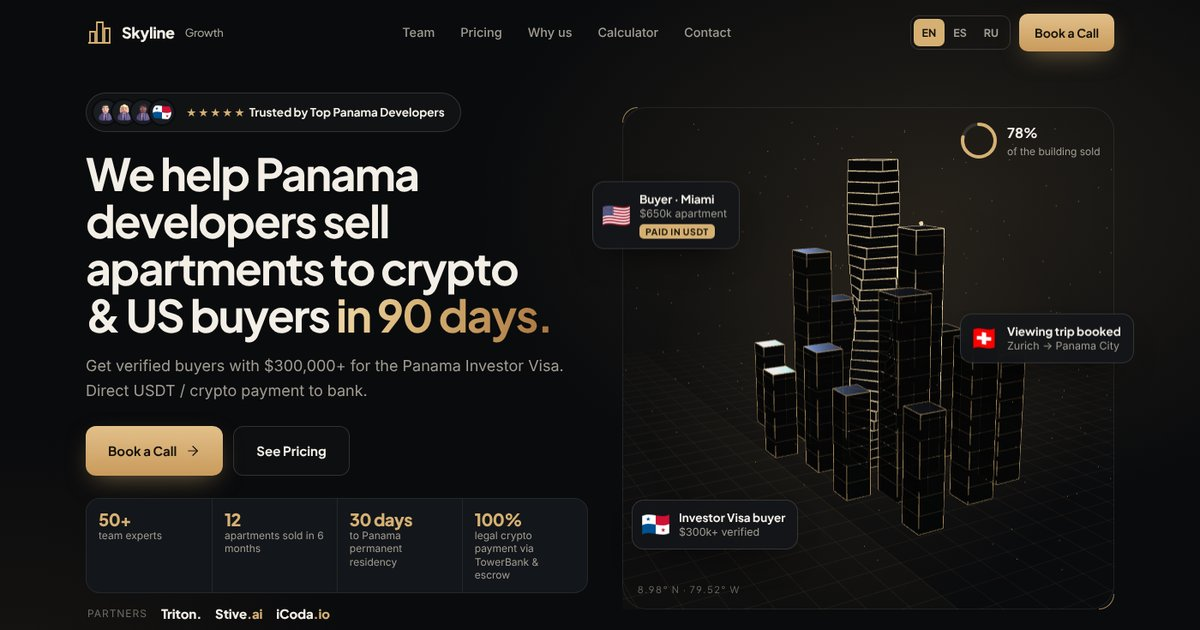
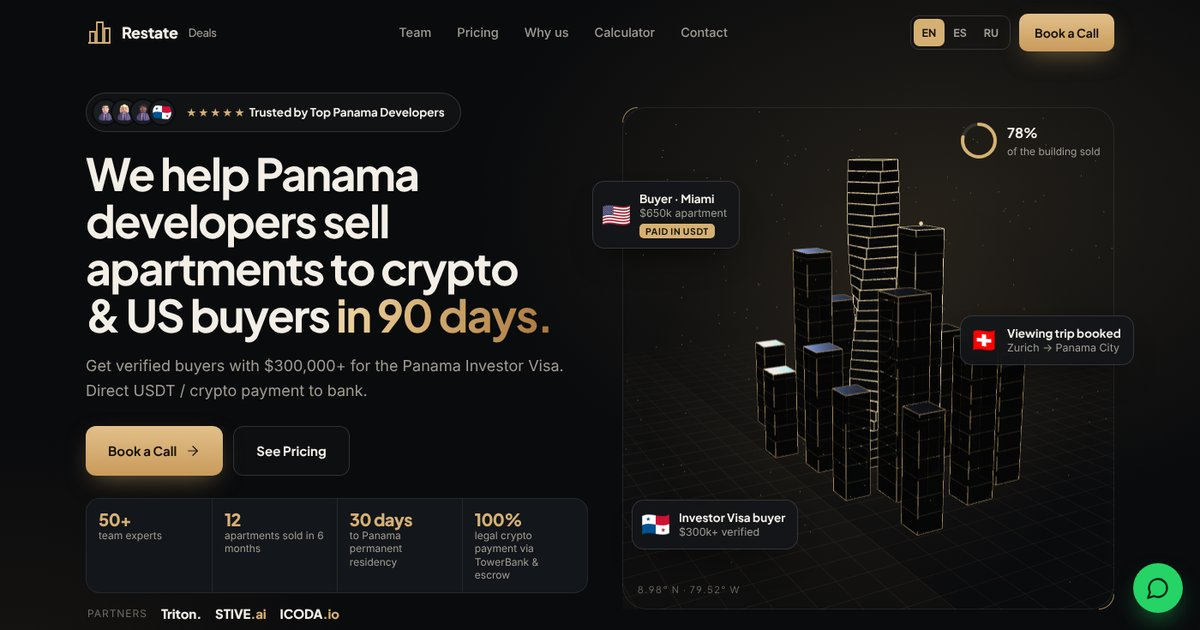
Rename to Restate Deals; WhatsApp number, Calendly links; uppercase ICODA and STIVE
Claude-Session: https://claude.ai/code/session_01LeM8CA7onLEPkCA6EuCgbG

diff --git a/real-estate-developers/index.html b/real-estate-developers/index.html
@@ -3,11 +3,11 @@
 <head>
 <meta charset="utf-8">
 <meta name="viewport" content="width=device-width, initial-scale=1, viewport-fit=cover">
-<title>Skyline Growth Panama</title>
+<title>Restate Deals</title>
 <meta name="description" content="We help Panama developers sell apartments to crypto and US buyers in 90 days. Verified $300k+ buyers, USDT payment to bank.">
 <meta name="theme-color" content="#0a0b0d">
 <meta property="og:type" content="website">
-<meta property="og:title" content="Skyline Growth: sell Panama apartments to crypto &amp; US buyers in 90 days">
+<meta property="og:title" content="Restate Deals: sell Panama apartments to crypto &amp; US buyers in 90 days">
 <meta property="og:description" content="Verified $300k+ buyers for the Panama Investor Visa. USDT payment to bank. No hidden margin.">
 <meta property="og:image" content="og.jpg">
 <meta name="twitter:card" content="summary_large_image">
@@ -470,7 +470,7 @@ footer{border-top:1px solid var(--line);padding-block:30px calc(30px + env(safe-
 .btn-wa{background:#25d366;color:#06240f;font-weight:700}
 .btn-wa:hover{transform:translateY(-2px);box-shadow:0 14px 30px -12px rgba(37,211,102,.6)}
 .btn-wa .ic{width:20px;height:20px}
-.checkout .btn-wa{width:100%}
+.checkout .btn-wa,.checkout .cal-big{width:100%}
 .f-links .wa-link{border-color:rgba(37,211,102,.5);color:#5ee08f}
 .f-links .wa-link:hover{background:rgba(37,211,102,.1)}
 .wa-float{position:fixed;right:max(20px,env(safe-area-inset-right,0px));bottom:calc(20px + env(safe-area-inset-bottom,0px));z-index:55;width:58px;height:58px;border-radius:50%;background:#25d366;color:#06240f;display:grid;place-items:center;box-shadow:0 14px 30px -10px rgba(37,211,102,.6);transition:transform .2s}
@@ -491,7 +491,7 @@ section[id]{scroll-margin-top:80px}
 
 <header id="hdr">
   <div class="wrap nav">
-    <a href="#top" class="logo"><svg viewBox="0 0 32 32" fill="none" stroke="#d6b073" stroke-width="1.8"><path d="M5 28V15h6v13M13 28V4h7v24M22 28V11h6v17M3 28h26"/></svg>Skyline<small>Growth</small></a>
+    <a href="#top" class="logo"><svg viewBox="0 0 32 32" fill="none" stroke="#d6b073" stroke-width="1.8"><path d="M5 28V15h6v13M13 28V4h7v24M22 28V11h6v17M3 28h26"/></svg>Restate<small>Deals</small></a>
     <nav class="nav-links">
       <a href="#team" data-i18n="nav.team">Team</a>
       <a href="#pricing" data-i18n="nav.pricing">Pricing</a>
@@ -501,7 +501,7 @@ section[id]{scroll-margin-top:80px}
     </nav>
     <div class="nav-right">
       <div class="lang" role="group" aria-label="Language"><button data-lang="en" class="on">EN</button><button data-lang="es">ES</button><button data-lang="ru">RU</button></div>
-      <a href="#book" class="btn btn-gold" data-i18n="cta.book">Book a Call</a>
+      <a href="#book" class="btn btn-gold js-cal" data-i18n="cta.book">Book a Call</a>
       <button class="burger" aria-label="Menu"><span></span></button>
     </div>
   </div>
@@ -511,7 +511,7 @@ section[id]{scroll-margin-top:80px}
   <a href="#pricing" data-i18n="nav.pricing">Pricing</a>
   <a href="#compare" data-i18n="nav.compare">Why us</a>
   <a href="#calculator" data-i18n="nav.calc">Calculator</a>
-  <a href="#book" class="btn btn-gold" data-i18n="cta.book">Book a Call</a>
+  <a href="#book" class="btn btn-gold js-cal" data-i18n="cta.book">Book a Call</a>
 </div>
 
 <main id="top">
@@ -522,7 +522,7 @@ section[id]{scroll-margin-top:80px}
       <h1 data-i18n-html="hero.title">We help Panama developers sell apartments to crypto &amp; US buyers <span class="gtxt">in 90 days.</span></h1>
       <p class="lead" data-i18n="hero.lead">Get verified buyers with $300,000+ for the Panama Investor Visa. Direct USDT / crypto payment to bank.</p>
       <div class="hero-cta">
-        <a href="#book" class="btn btn-gold"><span data-i18n="cta.book">Book a Call</span><svg class="ic" viewBox="0 0 24 24"><path d="M5 12h14" /> <path d="m12 5 7 7-7 7" /></svg></a>
+        <a href="#book" class="btn btn-gold js-cal"><span data-i18n="cta.book">Book a Call</span><svg class="ic" viewBox="0 0 24 24"><path d="M5 12h14" /> <path d="m12 5 7 7-7 7" /></svg></a>
         <a href="#pricing" class="btn btn-line" data-i18n="cta.pricing">See Pricing</a>
       </div>
       <div class="proof">
@@ -532,7 +532,7 @@ section[id]{scroll-margin-top:80px}
           <div><b data-i18n="st.3v">30 days</b><span data-i18n="st.3">to Panama permanent residency</span></div>
           <div><b>100%</b><span data-i18n="st.4">legal crypto payment via TowerBank &amp; escrow</span></div>
         </div>
-        <div class="proof-by"><span data-i18n="pw.t">Partners</span><b>Triton.</b><b>Stive<i>.ai</i></b><b>iCoda<i>.io</i></b></div>
+        <div class="proof-by"><span data-i18n="pw.t">Partners</span><b>Triton.</b><a href="https://stive.ai" target="_blank" rel="noopener"><b>STIVE<i>.ai</i></b></a><a href="https://icoda.io" target="_blank" rel="noopener"><b>ICODA<i>.io</i></b></a></div>
       </div>
     </div>
     <div class="scene" id="scene" aria-hidden="true">
@@ -561,7 +561,7 @@ section[id]{scroll-margin-top:80px}
         <div><h3>Artem Voinov</h3></div>
         <span class="f-role" data-i18n="tm.role">Founder &amp; CEO</span>
         <ul class="f-list">
-          <li><svg class="ic" viewBox="0 0 24 24"><circle cx="12" cy="12" r="10" /> <path d="m9 12 2 2 4-4" /></svg><span data-i18n="tm.b1">CBDO at ICODA.io and Stive.ai</span></li>
+          <li><svg class="ic" viewBox="0 0 24 24"><circle cx="12" cy="12" r="10" /> <path d="m9 12 2 2 4-4" /></svg><span data-i18n="tm.b1">CBDO at ICODA.io and STIVE.ai</span></li>
           <li><svg class="ic" viewBox="0 0 24 24"><path d="m22 2-7 20-4-9-9-4Z" /> <path d="M22 2 11 13" /></svg><span data-i18n="tm.b4">Telegram blog with 7,000+ professionals</span></li>
           <li><svg class="ic" viewBox="0 0 24 24"><path d="M20 10c0 6-8 12-8 12s-8-6-8-12a8 8 0 0 1 16 0Z" /> <circle cx="12" cy="10" r="3" /></svg><span data-i18n="tm.b2">Lives and works in Panama City</span></li>
           <li><svg class="ic" viewBox="0 0 24 24"><path d="M16 21v-2a4 4 0 0 0-4-4H6a4 4 0 0 0-4 4v2" /> <circle cx="9" cy="7" r="4" /> <path d="M22 21v-2a4 4 0 0 0-3-3.87" /> <path d="M16 3.13a4 4 0 0 1 0 7.75" /></svg><span data-i18n="tm.b3">Direct access to 2,000+ crypto founders and whales ready to buy property for Panama residency</span></li>
@@ -664,6 +664,7 @@ section[id]{scroll-margin-top:80px}
         <p class="form-ok" id="formOk" hidden></p>
       </form>
       <div class="card checkout rv d1">
+        <a class="btn btn-gold js-cal cal-big" href="#book"><span data-i18n="cal.btn">Pick a time in Calendly</span></a>
         <a class="btn btn-wa js-wa" hidden target="_blank" rel="noopener"><svg class="ic" viewBox="0 0 24 24"><path d="M7.9 20A9 9 0 1 0 4 16.1L2 22Z" /></svg><span data-i18n="wa.btn">Message Artem on WhatsApp</span></a>
         <h3 data-i18n="ck.h">Or start now</h3>
         <div class="seg" id="ckSeg"><button data-p="starter">Starter</button><button data-p="growth" class="on">Growth</button></div>
@@ -679,7 +680,7 @@ section[id]{scroll-margin-top:80px}
 
 <footer>
   <div class="wrap foot">
-    <span>© <span id="yr"></span> Skyline Growth · <span data-i18n="ft.t">Crypto and US buyers for Panama developers</span> · Triton, Stive.ai, iCoda.io</span>
+    <span>© <span id="yr"></span> Restate Deals · <span data-i18n="ft.t">Crypto and US buyers for Panama developers</span> · Triton, STIVE.ai, ICODA.io</span>
     <span>Panama City</span>
   </div>
 </footer>
@@ -702,7 +703,7 @@ section[id]{scroll-margin-top:80px}
 
 <div class="mcta" id="mcta">
   <a class="btn btn-wa mcta-wa js-wa" hidden target="_blank" rel="noopener" aria-label="WhatsApp"><svg class="ic" viewBox="0 0 24 24"><path d="M7.9 20A9 9 0 1 0 4 16.1L2 22Z" /></svg></a>
-  <a href="#book" class="btn btn-gold" data-i18n="cta.book">Book a Call</a>
+  <a href="#book" class="btn btn-gold js-cal" data-i18n="cta.book">Book a Call</a>
   <a href="#pricing" class="btn btn-line" data-i18n="cta.pricing">See Pricing</a>
 </div>
 
@@ -713,13 +714,15 @@ const CONFIG={
   stripe:{starter:"",growth:""},   // Stripe Payment Links (Apple Pay enabled)
   crypto:"",                       // USDT checkout link
   founderPhoto:"img/artem.webp",
-  whatsapp:""                      // your number in international format, digits only, e.g. "50760000000"
+  whatsapp:"50764566336",
+  calendly:"https://calendly.com/voinov-agency/real-estate-deals-ceo"
 };
 const ICONS={"building-2":"<path d=\"M6 22V4a2 2 0 0 1 2-2h8a2 2 0 0 1 2 2v18Z\" /> <path d=\"M6 12H4a2 2 0 0 0-2 2v6a2 2 0 0 0 2 2h2\" /> <path d=\"M18 9h2a2 2 0 0 1 2 2v9a2 2 0 0 1-2 2h-2\" /> <path d=\"M10 6h4\" /> <path d=\"M10 10h4\" /> <path d=\"M10 14h4\" /> <path d=\"M10 18h4\" />","building":"<rect width=\"16\" height=\"20\" x=\"4\" y=\"2\" rx=\"2\" ry=\"2\" /> <path d=\"M9 22v-4h6v4\" /> <path d=\"M8 6h.01\" /> <path d=\"M16 6h.01\" /> <path d=\"M12 6h.01\" /> <path d=\"M12 10h.01\" /> <path d=\"M12 14h.01\" /> <path d=\"M16 10h.01\" /> <path d=\"M16 14h.01\" /> <path d=\"M8 10h.01\" /> <path d=\"M8 14h.01\" />","landmark":"<line x1=\"3\" x2=\"21\" y1=\"22\" y2=\"22\" /> <line x1=\"6\" x2=\"6\" y1=\"18\" y2=\"11\" /> <line x1=\"10\" x2=\"10\" y1=\"18\" y2=\"11\" /> <line x1=\"14\" x2=\"14\" y1=\"18\" y2=\"11\" /> <line x1=\"18\" x2=\"18\" y1=\"18\" y2=\"11\" /> <polygon points=\"12 2 20 7 4 7\" />","plane":"<path d=\"M17.8 19.2 16 11l3.5-3.5C21 6 21.5 4 21 3c-1-.5-3 0-4.5 1.5L13 8 4.8 6.2c-.5-.1-.9.1-1.1.5l-.3.5c-.2.5-.1 1 .3 1.3L9 12l-2 3H4l-1 1 3 2 2 3 1-1v-3l3-2 3.5 5.3c.3.4.8.5 1.3.3l.5-.2c.4-.3.6-.7.5-1.2z\" />","plane-landing":"<path d=\"M2 22h20\" /> <path d=\"M3.77 10.77 2 9l2-4.5 1.1.55c.55.28.9.84.9 1.45s.35 1.17.9 1.45L8 8.5l3-6 1.05.53a2 2 0 0 1 1.09 1.52l.72 5.4a2 2 0 0 0 1.09 1.52l4.4 2.2c.42.22.78.55 1.01.96l.6 1.03c.49.88-.06 1.98-1.06 2.1l-1.18.15c-.47.06-.95-.02-1.37-.24L4.29 11.15a2 2 0 0 1-.52-.38Z\" />","search":"<circle cx=\"11\" cy=\"11\" r=\"8\" /> <path d=\"m21 21-4.3-4.3\" />","trending-down":"<polyline points=\"22 17 13.5 8.5 8.5 13.5 2 7\" /> <polyline points=\"16 17 22 17 22 11\" />","trending-up":"<polyline points=\"22 7 13.5 15.5 8.5 10.5 2 17\" /> <polyline points=\"16 7 22 7 22 13\" />","users":"<path d=\"M16 21v-2a4 4 0 0 0-4-4H6a4 4 0 0 0-4 4v2\" /> <circle cx=\"9\" cy=\"7\" r=\"4\" /> <path d=\"M22 21v-2a4 4 0 0 0-3-3.87\" /> <path d=\"M16 3.13a4 4 0 0 1 0 7.75\" />","handshake":"<path d=\"m11 17 2 2a1 1 0 1 0 3-3\" /> <path d=\"m14 14 2.5 2.5a1 1 0 1 0 3-3l-3.88-3.88a3 3 0 0 0-4.24 0l-.88.88a1 1 0 1 1-3-3l2.81-2.81a5.79 5.79 0 0 1 7.06-.87l.47.28a2 2 0 0 0 1.42.25L21 4\" /> <path d=\"m21 3 1 11h-2\" /> <path d=\"M3 3 2 14l6.5 6.5a1 1 0 1 0 3-3\" /> <path d=\"M3 4h8\" />","globe":"<circle cx=\"12\" cy=\"12\" r=\"10\" /> <path d=\"M12 2a14.5 14.5 0 0 0 0 20 14.5 14.5 0 0 0 0-20\" /> <path d=\"M2 12h20\" />","map-pin":"<path d=\"M20 10c0 6-8 12-8 12s-8-6-8-12a8 8 0 0 1 16 0Z\" /> <circle cx=\"12\" cy=\"10\" r=\"3\" />","key-round":"<path d=\"M2 18v3c0 .6.4 1 1 1h4v-3h3v-3h2l1.4-1.4a6.5 6.5 0 1 0-4-4Z\" /> <circle cx=\"16.5\" cy=\"7.5\" r=\".5\" fill=\"currentColor\" />","mail":"<rect width=\"20\" height=\"16\" x=\"2\" y=\"4\" rx=\"2\" /> <path d=\"m22 7-8.97 5.7a1.94 1.94 0 0 1-2.06 0L2 7\" />","megaphone":"<path d=\"m3 11 18-5v12L3 14v-3z\" /> <path d=\"M11.6 16.8a3 3 0 1 1-5.8-1.6\" />","shield-check":"<path d=\"M20 13c0 5-3.5 7.5-7.66 8.95a1 1 0 0 1-.67-.01C7.5 20.5 4 18 4 13V6a1 1 0 0 1 1-1c2 0 4.5-1.2 6.24-2.72a1.17 1.17 0 0 1 1.52 0C14.51 3.81 17 5 19 5a1 1 0 0 1 1 1z\" /> <path d=\"m9 12 2 2 4-4\" />","star":"<polygon points=\"12 2 15.09 8.26 22 9.27 17 14.14 18.18 21.02 12 17.77 5.82 21.02 7 14.14 2 9.27 8.91 8.26 12 2\" />","sparkles":"<path d=\"M9.937 15.5A2 2 0 0 0 8.5 14.063l-6.135-1.582a.5.5 0 0 1 0-.962L8.5 9.936A2 2 0 0 0 9.937 8.5l1.582-6.135a.5.5 0 0 1 .963 0L14.063 8.5A2 2 0 0 0 15.5 9.937l6.135 1.581a.5.5 0 0 1 0 .964L15.5 14.063a2 2 0 0 0-1.437 1.437l-1.582 6.135a.5.5 0 0 1-.963 0z\" /> <path d=\"M20 3v4\" /> <path d=\"M22 5h-4\" /> <path d=\"M4 17v2\" /> <path d=\"M5 18H3\" />","bot":"<path d=\"M12 8V4H8\" /> <rect width=\"16\" height=\"12\" x=\"4\" y=\"8\" rx=\"2\" /> <path d=\"M2 14h2\" /> <path d=\"M20 14h2\" /> <path d=\"M15 13v2\" /> <path d=\"M9 13v2\" />","calendar-check":"<path d=\"M8 2v4\" /> <path d=\"M16 2v4\" /> <rect width=\"18\" height=\"18\" x=\"3\" y=\"4\" rx=\"2\" /> <path d=\"M3 10h18\" /> <path d=\"m9 16 2 2 4-4\" />","crown":"<path d=\"M11.562 3.266a.5.5 0 0 1 .876 0L15.39 8.87a1 1 0 0 0 1.516.294L21.183 5.5a.5.5 0 0 1 .798.519l-2.834 10.246a1 1 0 0 1-.956.734H5.81a1 1 0 0 1-.957-.734L2.02 6.02a.5.5 0 0 1 .798-.519l4.276 3.664a1 1 0 0 0 1.516-.294z\" /> <path d=\"M5 21h14\" />","gem":"<path d=\"M6 3h12l4 6-10 13L2 9Z\" /> <path d=\"M11 3 8 9l4 13 4-13-3-6\" /> <path d=\"M2 9h20\" />","check":"<path d=\"M20 6 9 17l-5-5\" />","arrow-right":"<path d=\"M5 12h14\" /> <path d=\"m12 5 7 7-7 7\" />","wallet":"<path d=\"M19 7V4a1 1 0 0 0-1-1H5a2 2 0 0 0 0 4h15a1 1 0 0 1 1 1v4h-3a2 2 0 0 0 0 4h3a1 1 0 0 0 1-1v-2a1 1 0 0 0-1-1\" /> <path d=\"M3 5v14a2 2 0 0 0 2 2h15a1 1 0 0 0 1-1v-4\" />","bitcoin":"<path d=\"M11.767 19.089c4.924.868 6.14-6.025 1.216-6.894m-1.216 6.894L5.86 18.047m5.908 1.042-.347 1.97m1.563-8.864c4.924.869 6.14-6.025 1.215-6.893m-1.215 6.893-3.94-.694m5.155-6.2L8.29 4.26m5.908 1.042.348-1.97M7.48 20.364l3.126-17.727\" />","credit-card":"<rect width=\"20\" height=\"14\" x=\"2\" y=\"5\" rx=\"2\" /> <line x1=\"2\" x2=\"22\" y1=\"10\" y2=\"10\" />","phone":"<path d=\"M22 16.92v3a2 2 0 0 1-2.18 2 19.79 19.79 0 0 1-8.63-3.07 19.5 19.5 0 0 1-6-6 19.79 19.79 0 0 1-3.07-8.67A2 2 0 0 1 4.11 2h3a2 2 0 0 1 2 1.72 12.84 12.84 0 0 0 .7 2.81 2 2 0 0 1-.45 2.11L8.09 9.91a16 16 0 0 0 6 6l1.27-1.27a2 2 0 0 1 2.11-.45 12.84 12.84 0 0 0 2.81.7A2 2 0 0 1 22 16.92z\" />","file-text":"<path d=\"M15 2H6a2 2 0 0 0-2 2v16a2 2 0 0 0 2 2h12a2 2 0 0 0 2-2V7Z\" /> <path d=\"M14 2v4a2 2 0 0 0 2 2h4\" /> <path d=\"M10 9H8\" /> <path d=\"M16 13H8\" /> <path d=\"M16 17H8\" />","video":"<path d=\"m16 13 5.223 3.482a.5.5 0 0 0 .777-.416V7.87a.5.5 0 0 0-.752-.432L16 10.5\" /> <rect x=\"2\" y=\"6\" width=\"14\" height=\"12\" rx=\"2\" />","newspaper":"<path d=\"M4 22h16a2 2 0 0 0 2-2V4a2 2 0 0 0-2-2H8a2 2 0 0 0-2 2v16a2 2 0 0 1-2 2Zm0 0a2 2 0 0 1-2-2v-9c0-1.1.9-2 2-2h2\" /> <path d=\"M18 14h-8\" /> <path d=\"M15 18h-5\" /> <path d=\"M10 6h8v4h-8V6Z\" />","target":"<circle cx=\"12\" cy=\"12\" r=\"10\" /> <circle cx=\"12\" cy=\"12\" r=\"6\" /> <circle cx=\"12\" cy=\"12\" r=\"2\" />","rocket":"<path d=\"M4.5 16.5c-1.5 1.26-2 5-2 5s3.74-.5 5-2c.71-.84.7-2.13-.09-2.91a2.18 2.18 0 0 0-2.91-.09z\" /> <path d=\"m12 15-3-3a22 22 0 0 1 2-3.95A12.88 12.88 0 0 1 22 2c0 2.72-.78 7.5-6 11a22.35 22.35 0 0 1-4 2z\" /> <path d=\"M9 12H4s.55-3.03 2-4c1.62-1.08 5 0 5 0\" /> <path d=\"M12 15v5s3.03-.55 4-2c1.08-1.62 0-5 0-5\" />","trophy":"<path d=\"M6 9H4.5a2.5 2.5 0 0 1 0-5H6\" /> <path d=\"M18 9h1.5a2.5 2.5 0 0 0 0-5H18\" /> <path d=\"M4 22h16\" /> <path d=\"M10 14.66V17c0 .55-.47.98-.97 1.21C7.85 18.75 7 20.24 7 22\" /> <path d=\"M14 14.66V17c0 .55.47.98.97 1.21C16.15 18.75 17 20.24 17 22\" /> <path d=\"M18 2H6v7a6 6 0 0 0 12 0V2Z\" />","briefcase":"<path d=\"M16 20V4a2 2 0 0 0-2-2h-4a2 2 0 0 0-2 2v16\" /> <rect width=\"20\" height=\"14\" x=\"2\" y=\"6\" rx=\"2\" />","percent":"<line x1=\"19\" x2=\"5\" y1=\"5\" y2=\"19\" /> <circle cx=\"6.5\" cy=\"6.5\" r=\"2.5\" /> <circle cx=\"17.5\" cy=\"17.5\" r=\"2.5\" />","clock":"<circle cx=\"12\" cy=\"12\" r=\"10\" /> <polyline points=\"12 6 12 12 16 14\" />","eye-off":"<path d=\"M9.88 9.88a3 3 0 1 0 4.24 4.24\" /> <path d=\"M10.73 5.08A10.43 10.43 0 0 1 12 5c7 0 10 7 10 7a13.16 13.16 0 0 1-1.67 2.68\" /> <path d=\"M6.61 6.61A13.526 13.526 0 0 0 2 12s3 7 10 7a9.74 9.74 0 0 0 5.39-1.61\" /> <line x1=\"2\" x2=\"22\" y1=\"2\" y2=\"22\" />","badge-dollar-sign":"<path d=\"M3.85 8.62a4 4 0 0 1 4.78-4.77 4 4 0 0 1 6.74 0 4 4 0 0 1 4.78 4.78 4 4 0 0 1 0 6.74 4 4 0 0 1-4.77 4.78 4 4 0 0 1-6.75 0 4 4 0 0 1-4.78-4.77 4 4 0 0 1 0-6.76Z\" /> <path d=\"M16 8h-6a2 2 0 1 0 0 4h4a2 2 0 1 1 0 4H8\" /> <path d=\"M12 18V6\" />","flag-triangle-right":"<path d=\"M7 22V2l10 5-10 5\" />","tag":"<path d=\"M12.586 2.586A2 2 0 0 0 11.172 2H4a2 2 0 0 0-2 2v7.172a2 2 0 0 0 .586 1.414l8.704 8.704a2.426 2.426 0 0 0 3.42 0l6.58-6.58a2.426 2.426 0 0 0 0-3.42z\" /> <circle cx=\"7.5\" cy=\"7.5\" r=\".5\" fill=\"currentColor\" />","hotel":"<path d=\"M10 22v-6.57\" /> <path d=\"M12 11h.01\" /> <path d=\"M12 7h.01\" /> <path d=\"M14 15.43V22\" /> <path d=\"M15 16a5 5 0 0 0-6 0\" /> <path d=\"M16 11h.01\" /> <path d=\"M16 7h.01\" /> <path d=\"M8 11h.01\" /> <path d=\"M8 7h.01\" /> <rect x=\"4\" y=\"2\" width=\"16\" height=\"20\" rx=\"2\" />","castle":"<path d=\"M22 20v-9H2v9a2 2 0 0 0 2 2h16a2 2 0 0 0 2-2Z\" /> <path d=\"M18 11V4H6v7\" /> <path d=\"M15 22v-4a3 3 0 0 0-3-3a3 3 0 0 0-3 3v4\" /> <path d=\"M22 11V9\" /> <path d=\"M2 11V9\" /> <path d=\"M6 4V2\" /> <path d=\"M18 4V2\" /> <path d=\"M10 4V2\" /> <path d=\"M14 4V2\" />","waves":"<path d=\"M2 6c.6.5 1.2 1 2.5 1C7 7 7 5 9.5 5c2.6 0 2.4 2 5 2 2.5 0 2.5-2 5-2 1.3 0 1.9.5 2.5 1\" /> <path d=\"M2 12c.6.5 1.2 1 2.5 1 2.5 0 2.5-2 5-2 2.6 0 2.4 2 5 2 2.5 0 2.5-2 5-2 1.3 0 1.9.5 2.5 1\" /> <path d=\"M2 18c.6.5 1.2 1 2.5 1 2.5 0 2.5-2 5-2 2.6 0 2.4 2 5 2 2.5 0 2.5-2 5-2 1.3 0 1.9.5 2.5 1\" />","chart":"<path d=\"M3 3v18h18\" /> <path d=\"m19 9-5 5-4-4-3 3\" />","palm":"<path d=\"M13 8c0-2.76-2.46-5-5.5-5S2 5.24 2 8h2l1-1 1 1h4\" /> <path d=\"M13 7.14A5.82 5.82 0 0 1 16.5 6c3.04 0 5.5 2.24 5.5 5h-3l-1-1-1 1h-3\" /> <path d=\"M5.89 9.71c-2.15 2.15-2.3 5.47-.35 7.43l4.24-4.25.7-.7.71-.71 2.12-2.12c-1.95-1.96-5.27-1.8-7.42.35\" /> <path d=\"M11 15.5c.5 2.5-.17 4.5-1 6.5h4c2-5.5-.5-12-1-14\" />","x":"<path d=\"M18 6 6 18\" /> <path d=\"m6 6 12 12\" />","circle-check":"<circle cx=\"12\" cy=\"12\" r=\"10\" /> <path d=\"m9 12 2 2 4-4\" />","user-round":"<circle cx=\"12\" cy=\"8\" r=\"5\" /> <path d=\"M20 21a8 8 0 0 0-16 0\" />","send":"<path d=\"m22 2-7 20-4-9-9-4Z\" /> <path d=\"M22 2 11 13\" />","map":"<path d=\"M14.106 5.553a2 2 0 0 0 1.788 0l3.659-1.83A1 1 0 0 1 21 4.619v12.764a1 1 0 0 1-.553.894l-4.553 2.277a2 2 0 0 1-1.788 0l-4.212-2.106a2 2 0 0 0-1.788 0l-3.659 1.83A1 1 0 0 1 3 19.381V6.618a1 1 0 0 1 .553-.894l4.553-2.277a2 2 0 0 1 1.788 0z\" /> <path d=\"M15 5.764v15\" /> <path d=\"M9 3.236v15\" />"};
 const svg=(n,c='ic')=>`<svg class="${c}" viewBox="0 0 24 24">${ICONS[n]||''}</svg>`;
 
 const I18N={
 en:{
+ "cal.btn":"Pick a time in Calendly",
  "wa.btn":"Message Artem on WhatsApp",
  "wa.msg":"Hi Artem! I want crypto buyer leads for my real estate project in Panama.",
  "lm.b":"Transparent billing",
@@ -742,25 +745,26 @@ en:{
  "pw.t":"Partners",
  "vis.sold":"of the building sold","vis.c1":"Buyer · Miami","vis.c1s":"$650k apartment","vis.c1t":"Paid in USDT","vis.c2":"Viewing trip booked","vis.c2s":"Zurich → Panama City","vis.c3":"Investor Visa buyer","vis.c3s":"$300k+ verified",
  "tm.k":"Team","tm.t":"Leadership <span class=\"gold\">on the ground</span>","tm.l":"Based in Panama City. Native to Web3 and high-ticket sales.",
- "tm.role":"Founder & CEO","tm.b1":"CBDO at ICODA.io and Stive.ai","tm.b4":"Telegram blog with 7,000+ professionals","tm.b2":"Lives and works in Panama City","tm.b3":"Direct access to 2,000+ crypto founders and whales ready to buy property for Panama residency",
+ "tm.role":"Founder & CEO","tm.b1":"CBDO at ICODA.io and STIVE.ai","tm.b4":"Telegram blog with 7,000+ professionals","tm.b2":"Lives and works in Panama City","tm.b3":"Direct access to 2,000+ crypto founders and whales ready to buy property for Panama residency",
  "tm.n1":"crypto founders in our network","tm.n2":"vetted specialists","tm.n3":"professionals read Artem's Telegram","nm.t":"No hidden margin. You get every contractor directly.","nm.p":"Other agencies hide their markup on ads, designers and developers. We connect you to each contractor directly, so you save tens of thousands of dollars.","tm.th":"Backed by 50+ vetted specialists",
  "pk.k":"Pricing","pk.t":"Three <span class=\"gold\">simple plans</span>","pk.l":"Fixed monthly hours for any service + direct ad budget + success alignment.",
  "pk.mo":"/ month","pk.popular":"Most popular","pk.promo":"Promo","pk.get":"What you get","pk.terms":"Terms","pk.goal":"Goal",
  "cmp.k":"Why us","cmp.t":"Us vs <span class=\"gold\">the others</span>",
- "cmp.h0":"","cmp.h1":"Local Panama brokers","cmp.h2":"Big remote agencies","cmp.h3":"Skyline Growth",
+ "cmp.h0":"","cmp.h1":"Local Panama brokers","cmp.h2":"Big remote agencies","cmp.h3":"Restate Deals",
  "cs.k":"Results","cs.t":"Projects we've <span class=\"gold\">already sold</span>",
  "calc.k":"Calculator","calc.t":"What you save <span class=\"gold\">vs brokers</span>","calc.h":"Your project","calc.price":"Average apartment price","calc.units":"Apartments to sell per month",
  "calc.vol":"Your sales per month","calc.save":"You save vs a 6% broker fee","calc.saveS":"per month","calc.plan":"Recommended plan",
  "calc.cmp":"What each sale costs you","calc.cmpUs":"With us","calc.cmpBr":"Local brokers",
  "calc.as":"With us = monthly fee + ad budget + 2% on sales. Rough estimate based on our past projects.",
 
- "bk.k":"Contact","bk.t":"Book a call <span class=\"gold\">with Artem</span>","bk.name":"Your name","bk.company":"Company / building name","bk.phone":"WhatsApp number","bk.email":"Work email","bk.send":"Book a Call",
+ "bk.k":"Contact","bk.t":"Book a call <span class=\"gold\">with Artem</span>","bk.name":"Your name","bk.company":"Company / building name","bk.phone":"WhatsApp number","bk.email":"Work email","bk.send":"Send request",
  "bk.ok":"Thank you. Artem will message you on WhatsApp within one business day.","bk.preview":"This is a preview, so nothing was sent. On the live site this form sends your request to our team.",
  "ck.h":"Or start now","pay.card":"Card · Apple Pay","pay.cardS":"Secure checkout via Stripe","pay.crypto":"Crypto · USDT","pay.cryptoS":"Pay with USDT",
  "pay.soon":"Online payment opens soon. Fill in the form and we'll send you a secure payment link.",
  "ft.t":"Crypto and US buyers for Panama developers"
 },
 es:{
+ "cal.btn":"Elegir horario en Calendly",
  "wa.btn":"Escribir a Artem por WhatsApp",
  "wa.msg":"¡Hola Artem! Quiero leads de compradores crypto para mi proyecto inmobiliario en Panamá.",
  "lm.b":"Facturación transparente",
@@ -783,25 +787,25 @@ es:{
  "pw.t":"Socios",
  "vis.sold":"del edificio vendido","vis.c1":"Comprador · Miami","vis.c1s":"Apartamento de $650k","vis.c1t":"Pagado en USDT","vis.c2":"Visita agendada","vis.c2s":"Zúrich → Ciudad de Panamá","vis.c3":"Comprador con Visa de Inversionista","vis.c3s":"$300k+ verificado",
  "tm.k":"Equipo","tm.t":"Liderazgo <span class=\"gold\">en Panamá</span>","tm.l":"Con base en Ciudad de Panamá. Expertos en Web3 y ventas de alto valor.",
- "tm.role":"Fundador y CEO","tm.b1":"CBDO en ICODA.io y Stive.ai","tm.b4":"Blog en Telegram con 7,000+ profesionales","tm.b2":"Vive y trabaja en Ciudad de Panamá","tm.b3":"Acceso directo a 2,000+ fundadores crypto e inversionistas grandes listos para comprar propiedad para residencia en Panamá",
+ "tm.role":"Fundador y CEO","tm.b1":"CBDO en ICODA.io y STIVE.ai","tm.b4":"Blog en Telegram con 7,000+ profesionales","tm.b2":"Vive y trabaja en Ciudad de Panamá","tm.b3":"Acceso directo a 2,000+ fundadores crypto e inversionistas grandes listos para comprar propiedad para residencia en Panamá",
  "tm.n1":"fundadores crypto en nuestra red","tm.n2":"especialistas verificados","tm.n3":"profesionales leen el Telegram de Artem","nm.t":"Sin margen oculto. Trabaja con cada proveedor directamente.","nm.p":"Otras agencias esconden su margen en anuncios, diseñadores y programadores. Nosotros le conectamos con cada proveedor directamente y ahorra decenas de miles de dólares.","tm.th":"Respaldado por 50+ especialistas verificados",
  "pk.k":"Precios","pk.t":"Tres <span class=\"gold\">planes simples</span>","pk.l":"Horas mensuales fijas para cualquier servicio + presupuesto de anuncios directo + pago por resultado.",
  "pk.mo":"/ mes","pk.popular":"El más elegido","pk.promo":"Promo","pk.get":"Qué incluye","pk.terms":"Condiciones","pk.goal":"Meta",
  "cmp.k":"Por qué nosotros","cmp.t":"Nosotros vs <span class=\"gold\">los demás</span>",
- "cmp.h0":"","cmp.h1":"Corredores locales","cmp.h2":"Agencias remotas grandes","cmp.h3":"Skyline Growth",
+ "cmp.h0":"","cmp.h1":"Corredores locales","cmp.h2":"Agencias remotas grandes","cmp.h3":"Restate Deals",
  "cs.k":"Resultados","cs.t":"Proyectos que <span class=\"gold\">ya vendimos</span>",
  "calc.k":"Calculadora","calc.t":"Cuánto ahorra <span class=\"gold\">vs corredores</span>","calc.h":"Su proyecto","calc.price":"Precio promedio del apartamento","calc.units":"Apartamentos a vender por mes",
  "calc.vol":"Sus ventas por mes","calc.save":"Ahorra vs 6% de comisión","calc.saveS":"por mes","calc.plan":"Plan recomendado",
  "calc.cmp":"Lo que le cuesta cada venta","calc.cmpUs":"Con nosotros","calc.cmpBr":"Corredores locales",
  "calc.as":"Con nosotros = cuota mensual + anuncios + 2% por venta. Estimación aproximada.",
 
- "bk.k":"Contacto","bk.t":"Agende una llamada <span class=\"gold\">con Artem</span>","bk.name":"Su nombre","bk.company":"Empresa / nombre del edificio","bk.phone":"Número de WhatsApp","bk.email":"Email de trabajo","bk.send":"Agendar llamada",
+ "bk.k":"Contacto","bk.t":"Agende una llamada <span class=\"gold\">con Artem</span>","bk.name":"Su nombre","bk.company":"Empresa / nombre del edificio","bk.phone":"Número de WhatsApp","bk.email":"Email de trabajo","bk.send":"Enviar solicitud",
  "bk.ok":"Gracias. Artem le escribirá por WhatsApp en un día hábil.","bk.preview":"Esto es una vista previa, no se envió nada. En el sitio publicado este formulario envía su solicitud a nuestro equipo.",
  "ck.h":"O empiece ahora","pay.card":"Tarjeta · Apple Pay","pay.cardS":"Pago seguro con Stripe","pay.crypto":"Crypto · USDT","pay.cryptoS":"Pague con USDT",
  "pay.soon":"El pago en línea abre pronto. Complete el formulario y le enviaremos un enlace de pago seguro.",
  "ft.t":"Compradores crypto y de EE.UU. para promotores en Panamá"
 },
-ru:{"wa.btn": "Написать Артёму в WhatsApp", "wa.msg": "Здравствуйте, Артём! Хочу лидов на Real Estate из крипты.", "lm.b": "Прозрачная оплата", "lm.s": "Любой час можно потратить на", "fe.k2": "Понятная структура оплаты", "fe.t1": "Один банк часов. Тратьте на любые услуги.", "fe.k1": "Гибкая модель услуг", "pk.more": "Подробнее", "pk.ad": "Рекламный бюджет оплачивается отдельно, напрямую площадкам.", "pk.guar": "Гарантия", "pk.success": "Оплата за результат", "pk.focus": "Рекомендуемый фокус", "pk.hrs": "часов команды в месяц", "nav.team": "Команда", "nav.pricing": "Цены", "nav.compare": "Почему мы", "nav.calc": "Калькулятор", "nav.book": "Контакты", "cta.book": "Записаться на звонок", "cta.pricing": "Смотреть цены", "hero.tag": "Нам доверяют лучшие застройщики Панамы", "hero.title": "Продаём квартиры застройщиков Панамы крипто-покупателям и клиентам из США <span class=\"gtxt\">за 90 дней.</span>", "hero.lead": "Проверенные покупатели с $300,000+ под инвесторскую визу Панамы. Оплата в USDT / крипте напрямую на банковский счёт.", "st.1": "экспертов в команде", "st.2": "квартир продано за 6 месяцев", "st.3v": "30 дней", "st.3": "до ПМЖ в Панаме", "st.4": "легальная оплата криптой через TowerBank и эскроу", "pw.t": "Партнёры", "vis.sold": "здания продано", "vis.c1": "Покупатель · Майами", "vis.c1s": "Квартира за $650k", "vis.c1t": "Оплата в USDT", "vis.c2": "Показ забронирован", "vis.c2s": "Цюрих → Панама-Сити", "vis.c3": "Покупатель под визу", "vis.c3s": "$300k+ подтверждено", "tm.k": "Команда", "tm.t": "Руководство <span class=\"gold\">прямо в Панаме</span>", "tm.l": "Живём в Панама-Сити. Свои в Web3 и дорогих продажах.", "tm.role": "Основатель и CEO", "tm.b1": "CBDO в ICODA.io и Stive.ai", "tm.b4": "Telegram-блог на 7,000+ профессионалов", "tm.b2": "Живёт и работает в Панама-Сити", "tm.b3": "Прямой доступ к 2,000+ крипто-фаундерам и китам, готовым купить недвижимость ради резидентства в Панаме", "tm.n1": "крипто-фаундеров в нашей сети", "tm.n2": "проверенных специалистов", "tm.n3": "профессионалов читают Telegram Артёма", "tm.th": "За нами 50+ проверенных специалистов", "nm.t": "Без скрытой маржи. Все подрядчики напрямую.", "nm.p": "Другие агентства прячут наценку на рекламу, дизайнеров и разработчиков. Мы даём вам каждого подрядчика напрямую, и вы экономите десятки тысяч долларов.", "pk.k": "Цены", "pk.t": "Три <span class=\"gold\">простых плана</span>", "pk.l": "Фиксированные часы в месяц на любые услуги + рекламный бюджет напрямую + оплата за результат.", "pk.mo": "/ мес", "pk.popular": "Популярный", "pk.promo": "Акция", "pk.get": "Что входит", "pk.terms": "Условия", "pk.goal": "Цель", "cmp.k": "Почему мы", "cmp.t": "Мы и <span class=\"gold\">другие</span>", "cmp.h0": "", "cmp.h1": "Местные брокеры", "cmp.h2": "Большие удалённые агентства", "cmp.h3": "Skyline Growth", "cs.k": "Результаты", "cs.t": "Проекты, которые мы <span class=\"gold\">уже продали</span>", "calc.k": "Калькулятор", "calc.t": "Сколько вы сэкономите <span class=\"gold\">по сравнению с брокерами</span>", "calc.h": "Ваш проект", "calc.price": "Средняя цена квартиры", "calc.units": "Квартир продать в месяц", "calc.vol": "Ваши продажи в месяц", "calc.save": "Экономия против комиссии брокера 6%", "calc.saveS": "в месяц", "calc.plan": "Рекомендуемый план", "calc.cmp": "Сколько стоит вам каждая продажа", "calc.cmpUs": "С нами", "calc.cmpBr": "Местные брокеры", "calc.as": "С нами = ежемесячная оплата + реклама + 2% с продаж. Примерная оценка по прошлым проектам.", "bk.k": "Контакты", "bk.t": "Созвон <span class=\"gold\">с Артёмом</span>", "bk.name": "Ваше имя", "bk.company": "Компания / название здания", "bk.phone": "Номер WhatsApp", "bk.email": "Рабочий email", "bk.send": "Записаться на звонок", "bk.ok": "Спасибо. Артём напишет вам в WhatsApp в течение рабочего дня.", "bk.preview": "Это превью, поэтому ничего не отправлено. На опубликованном сайте форма отправит заявку нашей команде.", "ck.h": "Или начните сейчас", "pay.card": "Карта · Apple Pay", "pay.cardS": "Безопасная оплата через Stripe", "pay.crypto": "Крипта · USDT", "pay.cryptoS": "Оплата в USDT", "pay.soon": "Онлайн-оплата скоро откроется. Заполните форму, и мы пришлём безопасную ссылку на оплату.", "ft.t": "Крипто-покупатели и клиенты из США для застройщиков Панамы"}};
+ru:{"cal.btn": "Выбрать время в Calendly", "wa.btn": "Написать Артёму в WhatsApp", "wa.msg": "Здравствуйте, Артём! Хочу лидов на Real Estate из крипты.", "lm.b": "Прозрачная оплата", "lm.s": "Любой час можно потратить на", "fe.k2": "Понятная структура оплаты", "fe.t1": "Один банк часов. Тратьте на любые услуги.", "fe.k1": "Гибкая модель услуг", "pk.more": "Подробнее", "pk.ad": "Рекламный бюджет оплачивается отдельно, напрямую площадкам.", "pk.guar": "Гарантия", "pk.success": "Оплата за результат", "pk.focus": "Рекомендуемый фокус", "pk.hrs": "часов команды в месяц", "nav.team": "Команда", "nav.pricing": "Цены", "nav.compare": "Почему мы", "nav.calc": "Калькулятор", "nav.book": "Контакты", "cta.book": "Записаться на звонок", "cta.pricing": "Смотреть цены", "hero.tag": "Нам доверяют лучшие застройщики Панамы", "hero.title": "Продаём квартиры застройщиков Панамы крипто-покупателям и клиентам из США <span class=\"gtxt\">за 90 дней.</span>", "hero.lead": "Проверенные покупатели с $300,000+ под инвесторскую визу Панамы. Оплата в USDT / крипте напрямую на банковский счёт.", "st.1": "экспертов в команде", "st.2": "квартир продано за 6 месяцев", "st.3v": "30 дней", "st.3": "до ПМЖ в Панаме", "st.4": "легальная оплата криптой через TowerBank и эскроу", "pw.t": "Партнёры", "vis.sold": "здания продано", "vis.c1": "Покупатель · Майами", "vis.c1s": "Квартира за $650k", "vis.c1t": "Оплата в USDT", "vis.c2": "Показ забронирован", "vis.c2s": "Цюрих → Панама-Сити", "vis.c3": "Покупатель под визу", "vis.c3s": "$300k+ подтверждено", "tm.k": "Команда", "tm.t": "Руководство <span class=\"gold\">прямо в Панаме</span>", "tm.l": "Живём в Панама-Сити. Свои в Web3 и дорогих продажах.", "tm.role": "Основатель и CEO", "tm.b1": "CBDO в ICODA.io и STIVE.ai", "tm.b4": "Telegram-блог на 7,000+ профессионалов", "tm.b2": "Живёт и работает в Панама-Сити", "tm.b3": "Прямой доступ к 2,000+ крипто-фаундерам и китам, готовым купить недвижимость ради резидентства в Панаме", "tm.n1": "крипто-фаундеров в нашей сети", "tm.n2": "проверенных специалистов", "tm.n3": "профессионалов читают Telegram Артёма", "tm.th": "За нами 50+ проверенных специалистов", "nm.t": "Без скрытой маржи. Все подрядчики напрямую.", "nm.p": "Другие агентства прячут наценку на рекламу, дизайнеров и разработчиков. Мы даём вам каждого подрядчика напрямую, и вы экономите десятки тысяч долларов.", "pk.k": "Цены", "pk.t": "Три <span class=\"gold\">простых плана</span>", "pk.l": "Фиксированные часы в месяц на любые услуги + рекламный бюджет напрямую + оплата за результат.", "pk.mo": "/ мес", "pk.popular": "Популярный", "pk.promo": "Акция", "pk.get": "Что входит", "pk.terms": "Условия", "pk.goal": "Цель", "cmp.k": "Почему мы", "cmp.t": "Мы и <span class=\"gold\">другие</span>", "cmp.h0": "", "cmp.h1": "Местные брокеры", "cmp.h2": "Большие удалённые агентства", "cmp.h3": "Restate Deals", "cs.k": "Результаты", "cs.t": "Проекты, которые мы <span class=\"gold\">уже продали</span>", "calc.k": "Калькулятор", "calc.t": "Сколько вы сэкономите <span class=\"gold\">по сравнению с брокерами</span>", "calc.h": "Ваш проект", "calc.price": "Средняя цена квартиры", "calc.units": "Квартир продать в месяц", "calc.vol": "Ваши продажи в месяц", "calc.save": "Экономия против комиссии брокера 6%", "calc.saveS": "в месяц", "calc.plan": "Рекомендуемый план", "calc.cmp": "Сколько стоит вам каждая продажа", "calc.cmpUs": "С нами", "calc.cmpBr": "Местные брокеры", "calc.as": "С нами = ежемесячная оплата + реклама + 2% с продаж. Примерная оценка по прошлым проектам.", "bk.k": "Контакты", "bk.t": "Созвон <span class=\"gold\">с Артёмом</span>", "bk.name": "Ваше имя", "bk.company": "Компания / название здания", "bk.phone": "Номер WhatsApp", "bk.email": "Рабочий email", "bk.send": "Отправить заявку", "bk.ok": "Спасибо. Артём напишет вам в WhatsApp в течение рабочего дня.", "bk.preview": "Это превью, поэтому ничего не отправлено. На опубликованном сайте форма отправит заявку нашей команде.", "ck.h": "Или начните сейчас", "pay.card": "Карта · Apple Pay", "pay.cardS": "Безопасная оплата через Stripe", "pay.crypto": "Крипта · USDT", "pay.cryptoS": "Оплата в USDT", "pay.soon": "Онлайн-оплата скоро откроется. Заполните форму, и мы пришлём безопасную ссылку на оплату.", "ft.t": "Крипто-покупатели и клиенты из США для застройщиков Панамы"}};
 
 const T=(en,es,ru)=>({en,es,ru});
 const STRIP=["Costa del Este","Santa María","Ocean Reef","Punta Pacífica","Casco Viejo","Avenida Balboa","USDT","Investor Visa"];
@@ -848,7 +852,7 @@ const FEES=[
 
 const CMP=[
  [T("In Panama?","¿En Panamá?","В Панаме?"),T("Yes","Sí","Да"),T("No, remote","No, remoto","Нет, удалённо"),T("Yes, we live in Panama City","Sí, vivimos en Ciudad de Panamá","Да, живём в Панама-Сити"),[1,0]],
- [T("Crypto knowledge","Conocimiento crypto","Знание крипты"),T("None, cash and banks only","Ninguno, solo efectivo y bancos","Нет, только наличные и банки"),T("Basic theory","Teoría básica","Базовая теория"),T("Expert: ICODA & Stive.ai team, USDT, escrow","Expertos: equipo de ICODA y Stive.ai, USDT, escrow","Эксперты: команда ICODA и Stive.ai, USDT, эскроу"),[0,0]],
+ [T("Crypto knowledge","Conocimiento crypto","Знание крипты"),T("None, cash and banks only","Ninguno, solo efectivo y bancos","Нет, только наличные и банки"),T("Basic theory","Teoría básica","Базовая теория"),T("Expert: ICODA & STIVE.ai team, USDT, escrow","Expertos: equipo de ICODA y STIVE.ai, USDT, escrow","Эксперты: команда ICODA и STIVE.ai, USDT, эскроу"),[0,0]],
  [T("Who they bring","A quién traen","Кого приводят"),T("Local Panama buyers","Compradores locales","Местных покупателей"),T("Random tourists","Turistas al azar","Случайных туристов"),T("Rich Web3 founders with $300k+ cash","Fundadores Web3 con $300k+ en efectivo","Web3-фаундеров с $300k+ на руках"),[0,0]],
  [T("Contractors & margin","Proveedores y margen","Подрядчики и маржа"),T("Not transparent","Sin transparencia","Непрозрачно"),T("Hidden markup on every contractor","Margen oculto en cada proveedor","Скрытая наценка на каждого подрядчика"),T("No hidden margin, direct contractors","Sin margen oculto, proveedores directos","Без скрытой маржи, подрядчики напрямую"),[0,0]],
  [T("Price","Precio","Цена"),T("5% to 8% commission","5% a 8% de comisión","Комиссия 5–8%"),T("$10k/mo, no care about sales","$10k/mes, sin interés en ventas","$10k/мес, продажи их не волнуют"),T("Fair monthly fee + 2% on real sales","Cuota justa + 2% por venta real","Честная оплата + 2% с реальных продаж"),[0,0]]
@@ -883,7 +887,7 @@ function render(){
      <ul class="fee">${p.fees.map(x=>`<li>${svg('percent')}<span>${tr(x)}</span></li>`).join('')}</ul>
      ${p.goal?`<div class="goal ${p.goalType==='guar'?'guar2':''}">${svg(p.goalType==='guar'?'shield-check':'target')}<div><b>${tr(p.goal)}</b><span>${D[p.goalType==='guar'?'pk.guar':'pk.goal']}</span></div></div>`:''}
      <p class="adnote">${D['pk.ad']}</p>
-     <div class="pkg-cta"><a href="#book" class="btn ${p.feat?'btn-gold':'btn-line'} js-select" data-pkg="${p.id}">${tr(p.cta)}${svg('arrow-right')}</a><button class="btn btn-ghost js-lm" data-pkg="${p.id}">${D['pk.more']}</button></div>
+     <div class="pkg-cta"><a href="#book" class="btn ${p.feat?'btn-gold':'btn-line'} js-select ${p.id==='enterprise'?'js-cal':''}" data-pkg="${p.id}">${tr(p.cta)}${svg('arrow-right')}</a><button class="btn btn-ghost js-lm" data-pkg="${p.id}">${D['pk.more']}</button></div>
    </div>`).join('');
   $('#svcChips').innerHTML=SVC.map(([i,t])=>`<span>${svg(i)}${tr(t)}</span>`).join('');
   $('#feeList').innerHTML=FEES.map(([t,d])=>`<li><div><b>${tr(t)}</b><span>${tr(d)}</span></div></li>`).join('');
@@ -955,6 +959,10 @@ function bindWA(){
   const url='https://wa.me/'+CONFIG.whatsapp.replace(/\D/g,'')+'?text='+encodeURIComponent(I18N[lang]['wa.msg']);
   $$('.js-wa').forEach(a=>{a.href=url;a.hidden=false;});
 }
+function bindCal(){
+  if(!CONFIG.calendly)return;
+  $$('.js-cal').forEach(a=>{a.href=CONFIG.calendly;a.target='_blank';a.rel='noopener';});
+}
 if(CONFIG.founderPhoto)$('#fPhoto').innerHTML=`<img src="${CONFIG.founderPhoto}" alt="Artem Voinov">`;
 
 function applyLang(l){
@@ -962,7 +970,7 @@ function applyLang(l){
   $$('[data-i18n]').forEach(el=>{const k=el.dataset.i18n;if(D[k]!=null)el.textContent=D[k];});
   $$('[data-i18n-html]').forEach(el=>{const k=el.dataset.i18nHtml;if(D[k]!=null)el.innerHTML=D[k];});
   $$('.lang button').forEach(b=>b.classList.toggle('on',b.dataset.lang===l));
-  render();bindWA();try{localStorage.setItem('lang',l)}catch(e){}
+  render();bindWA();bindCal();try{localStorage.setItem('lang',l)}catch(e){}
 }
 $$('.lang button').forEach(b=>b.onclick=()=>applyLang(b.dataset.lang));
 
